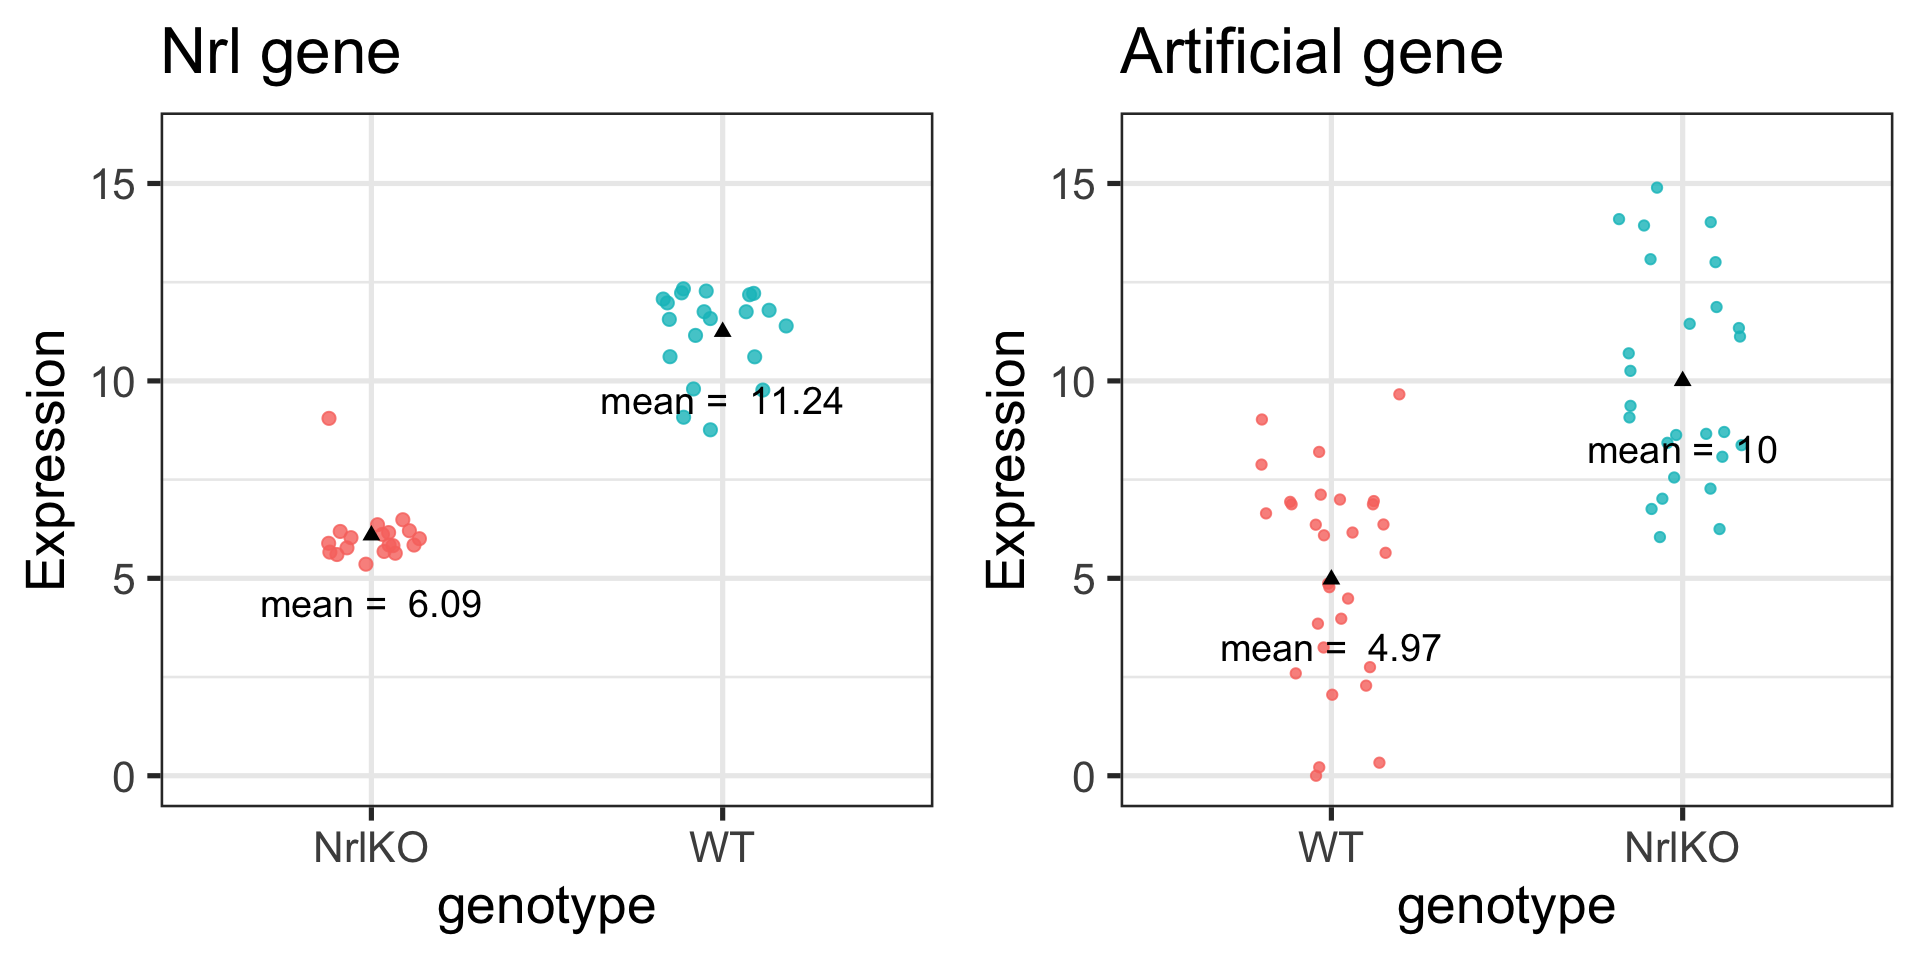
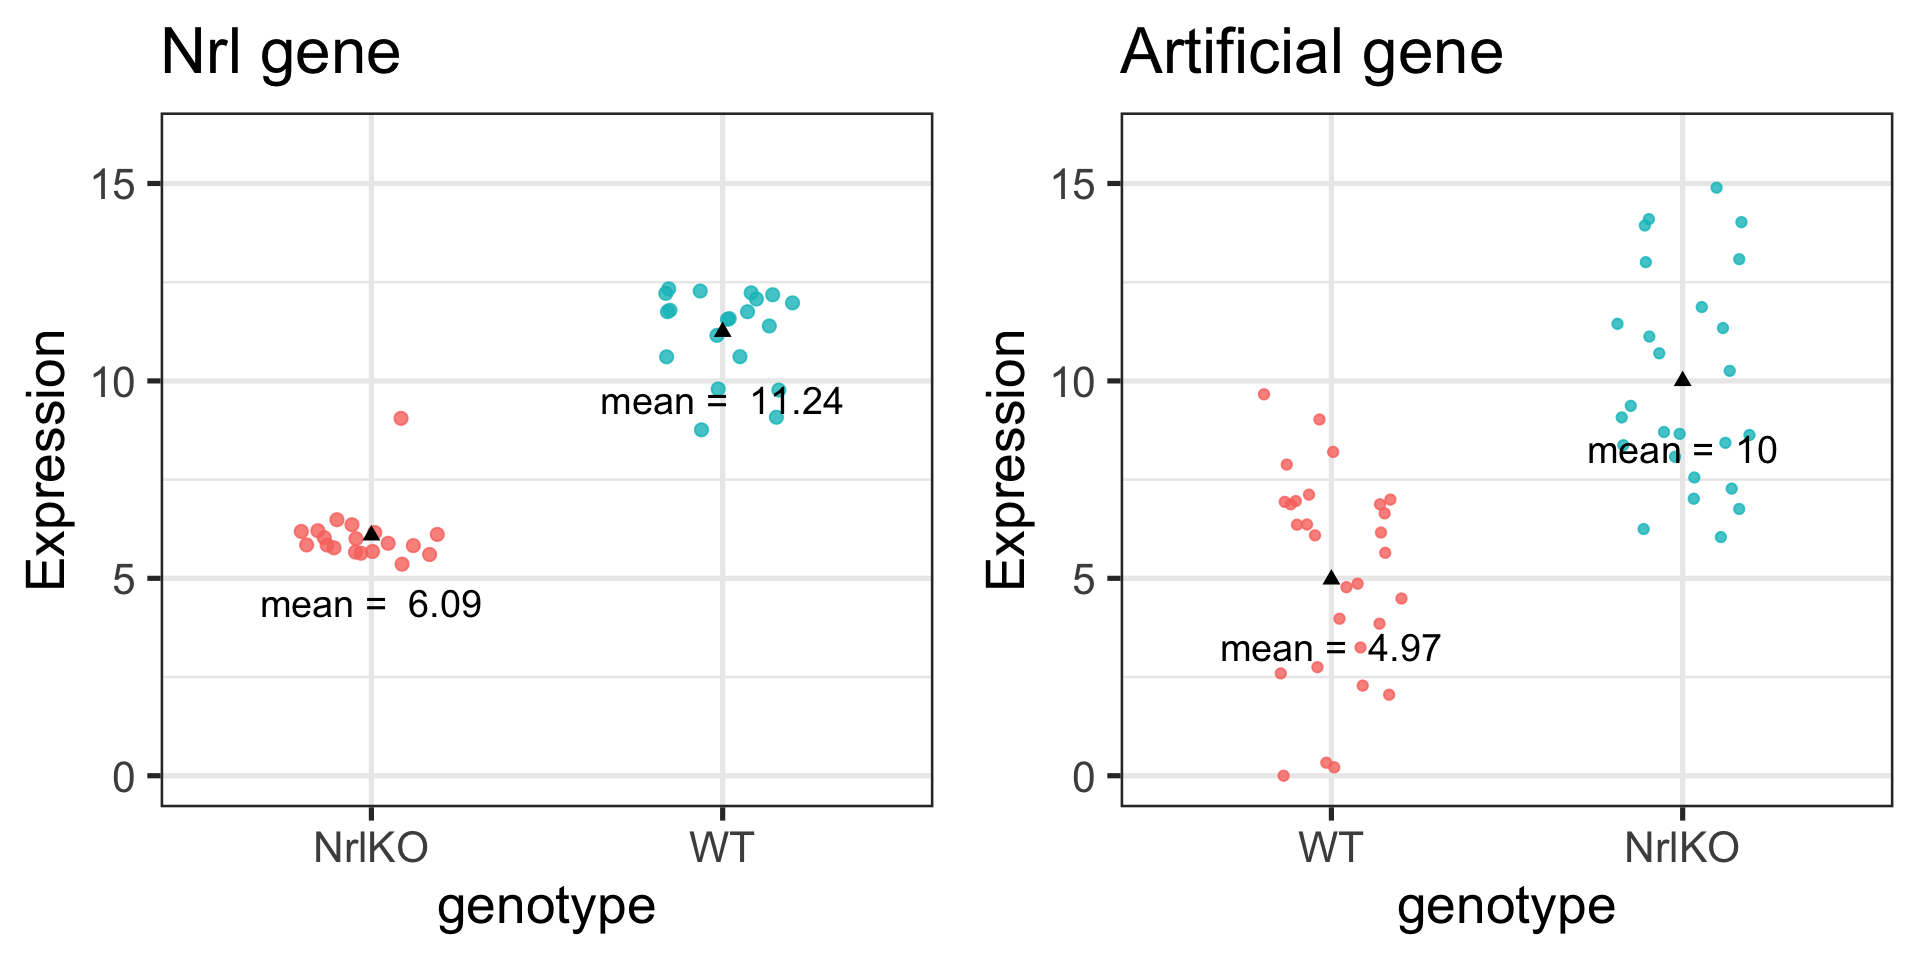
fix typo; set seed

diff --git a/lect05-twoGroup/lect05-twogroup.html b/lect05-twoGroup/lect05-twogroup.html
@@ -637,7 +637,7 @@ Annotation: GPL1261 </code></pre>
 <div id="tabset-1-2">
 <div class="cell">
 <div class="cell-output-display">
-<p><img data-src="lect05-twogroup_files/figure-revealjs/unnamed-chunk-4-1.png" width="960"></p>
+<p><img data-src="lect05-twogroup_files/figure-revealjs/unnamed-chunk-5-1.png" width="960"></p>
 </div>
 </div>
 </div>
@@ -691,7 +691,7 @@ Annotation: GPL1261 </code></pre>
 <h2>Is there enough evidence to reject H<sub>0</sub>?</h2>
 <h3 id="h_0-mu_y-mu_z"><span class="math inline">\(H_0: \mu_Y = \mu_Z\)</span></h3>
 
-<img data-src="lect05-twogroup_files/figure-revealjs/unnamed-chunk-5-1.png" width="960" class="r-stretch"><p><strong>Statistical Inference</strong>: random samples are used to learn about the population</p>
+<img data-src="lect05-twogroup_files/figure-revealjs/unnamed-chunk-6-1.png" width="960" class="r-stretch"><p><strong>Statistical Inference</strong>: random samples are used to learn about the population</p>
 </section>
 <section id="what-we-observe-sample-averages-bary-vs-barz" class="slide level2">
 <h2>What we observe: sample averages: <span class="math inline">\(\bar{Y}\)</span> vs <span class="math inline">\(\bar{Z}\)</span></h2>
@@ -726,7 +726,7 @@ Annotation: GPL1261 </code></pre>
 <section id="is-the-difference-between-bary-and-barz-enough-to-reject-h0" class="slide level2">
 <h2>Is the difference between <span class="math inline">\(\bar{Y}\)</span> and <span class="math inline">\(\bar{Z}\)</span> enough to reject H<sub>0</sub>?</h2>
 
-<img data-src="lect05-twogroup_files/figure-revealjs/unnamed-chunk-7-1.png" width="960" class="r-stretch"><div class="fragment">
+<img data-src="lect05-twogroup_files/figure-revealjs/unnamed-chunk-8-1.png" width="960" class="r-stretch"><div class="fragment">
 <ul>
 <li><p>The sample means, <span class="math inline">\(\bar{Y}\)</span> vs <span class="math inline">\(\bar{Z}\)</span>, by themselves are not enough to make conclusions about the population</p></li>
 <li><p>What is a “large” difference? “Large” relative to what?</p></li>
@@ -736,7 +736,7 @@ Annotation: GPL1261 </code></pre>
 <section id="consider-this-artificial-version-of-nrl" class="slide level2">
 <h2>Consider this artificial version of <em>Nrl</em></h2>
 
-<img data-src="lect05-twogroup_files/figure-revealjs/unnamed-chunk-8-1.png" width="960" class="r-stretch"><div class="fragment">
+<img data-src="lect05-twogroup_files/figure-revealjs/unnamed-chunk-9-1.png" width="960" class="r-stretch"><div class="fragment">
 <p>What can we use to interpret the size of the mean difference? <span class="math inline">\(\frac{\bar{Y}-\bar{Z}}{??}\)</span></p>
 </div>
 </section>
@@ -750,7 +750,7 @@ Annotation: GPL1261 </code></pre>
 </div>
 </div>
 
-<img data-src="lect05-twogroup_files/figure-revealjs/unnamed-chunk-9-1.png" width="960" class="r-stretch"></section>
+<img data-src="lect05-twogroup_files/figure-revealjs/unnamed-chunk-10-1.png" width="960" class="r-stretch"></section>
 <section id="quantifying-observed-variation" class="slide level2">
 <h2>Quantifying observed variation</h2>
 <ul>
@@ -805,11 +805,11 @@ Annotation: GPL1261 </code></pre>
 4 Nrl   WT         1.22  </code></pre>
 </div>
 </div>
-<p>For example, for Nrl in WT: <span class="math display">\[\hat{\sigma}_Y^2 = S_Y^2=\frac{1}{n_Y}\sum_{i=1}^{n_Y}(Y_i-\bar{Y})^2=1.22\]</span></p>
+<p>For example, for Nrl in WT: <span class="math display">\[\hat{\sigma}_Y^2 = S_Y^2=\frac{1}{n_Y-1}\sum_{i=1}^{n_Y}(Y_i-\bar{Y})^2=1.22\]</span></p>
 </div><div class="column">
 <div class="cell">
 <div class="cell-output-display">
-<p><img data-src="lect05-twogroup_files/figure-revealjs/unnamed-chunk-11-1.png" width="432"></p>
+<p><img data-src="lect05-twogroup_files/figure-revealjs/unnamed-chunk-12-1.png" width="432"></p>
 </div>
 </div>
 </div>
@@ -1040,7 +1040,7 @@ Annotation: GPL1261 </code></pre>
 <p>For <em>Irs4</em>, the probability of seeing a test statistic as extreme as that observed <span class="math inline">\((t = -0.53)\)</span> is pretty high <span class="math inline">\((p = 0.6)\)</span>.</p>
 <p>But for <em>Nrl</em>, the probability of seeing a test statistic as extreme as that observed <span class="math inline">\((t = -16.8)\)</span> is extremely low <span class="math inline">\((p=6.76 \times 10^{-19})\)</span></p>
 
-<img data-src="lect05-twogroup_files/figure-revealjs/unnamed-chunk-17-1.png" width="960" class="r-stretch"></section>
+<img data-src="lect05-twogroup_files/figure-revealjs/unnamed-chunk-18-1.png" width="960" class="r-stretch"></section>
 <section id="hypothesis-testing-step-4" class="slide level2">
 <h2>Hypothesis Testing: Step 4</h2>
 <h3 id="make-a-decision-about-significance-of-results">4. Make a decision about significance of results</h3>
@@ -1302,7 +1302,7 @@ alternative hypothesis: true location shift is not equal to 0</code></pre>
 <section id="kolmogorov-smirnov-test-two-sample-1" class="slide level2">
 <h2>Kolmogorov-Smirnov test (two sample)</h2>
 
-<img data-src="lect05-twogroup_files/figure-revealjs/unnamed-chunk-22-1.png" width="960" class="r-stretch"></section>
+<img data-src="lect05-twogroup_files/figure-revealjs/unnamed-chunk-23-1.png" width="960" class="r-stretch"></section>
 <section id="ks.test-function-in-r" class="slide level2">
 <h2><code>ks.test</code> function in R</h2>
 <div class="panel-tabset">
